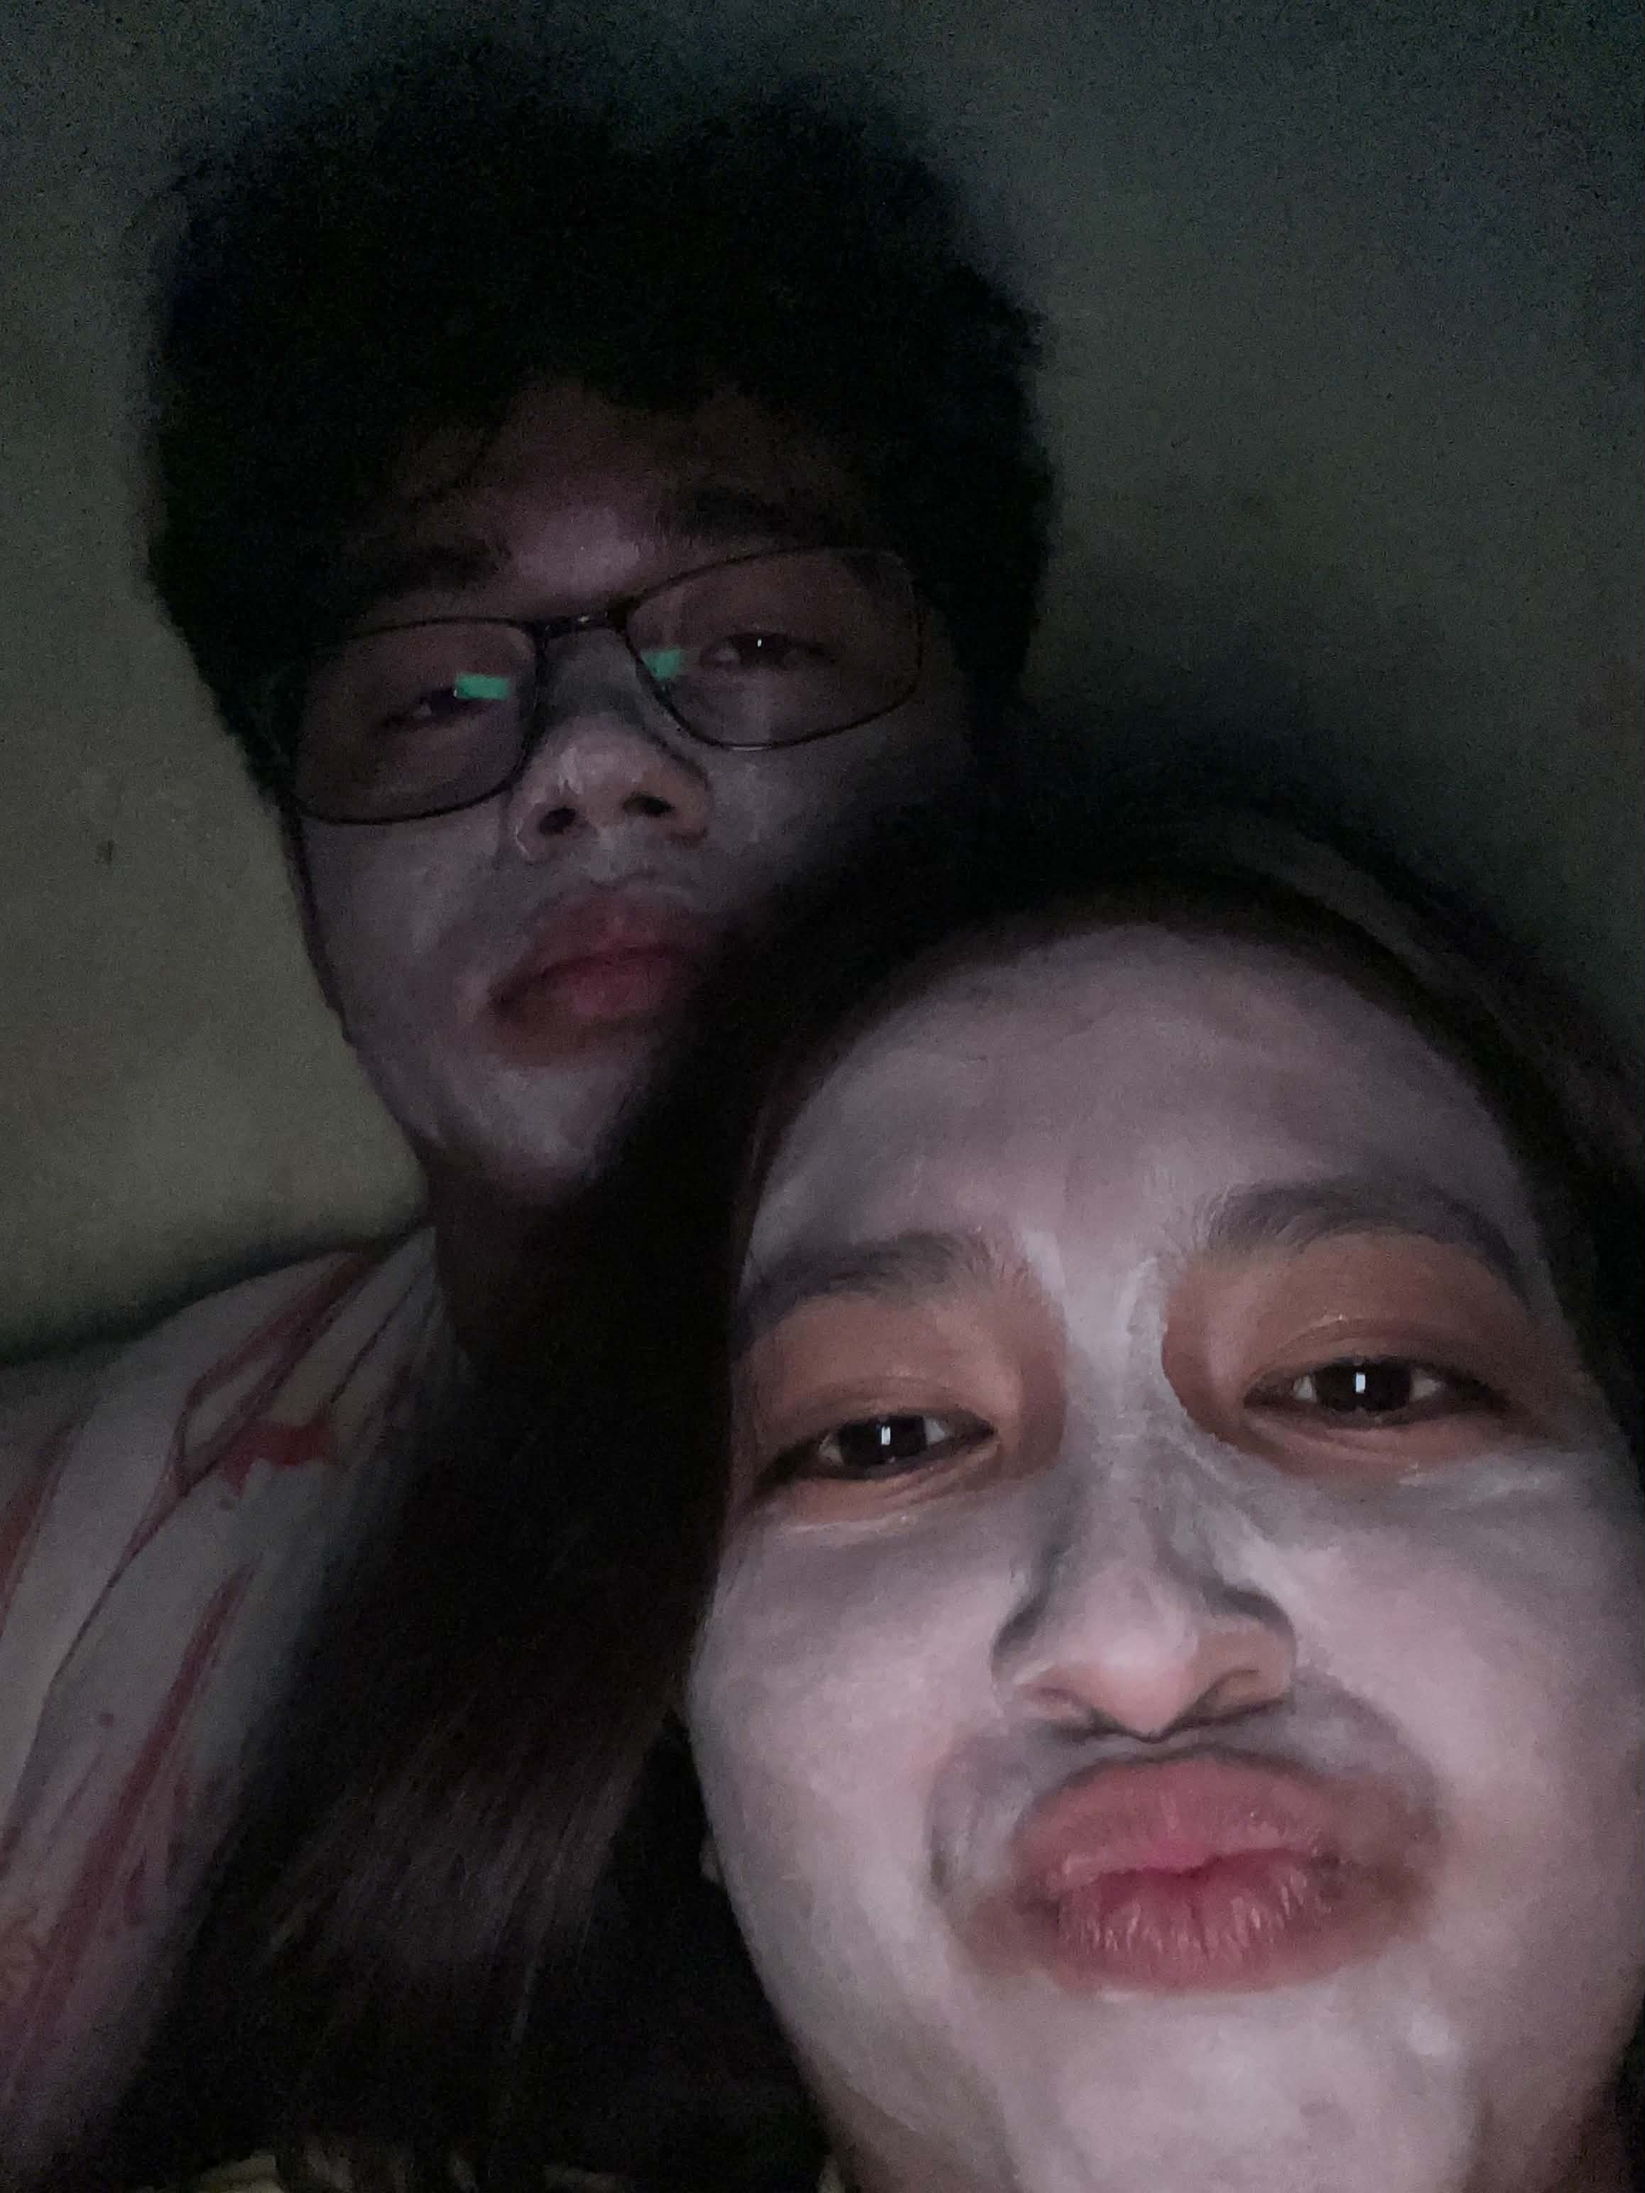
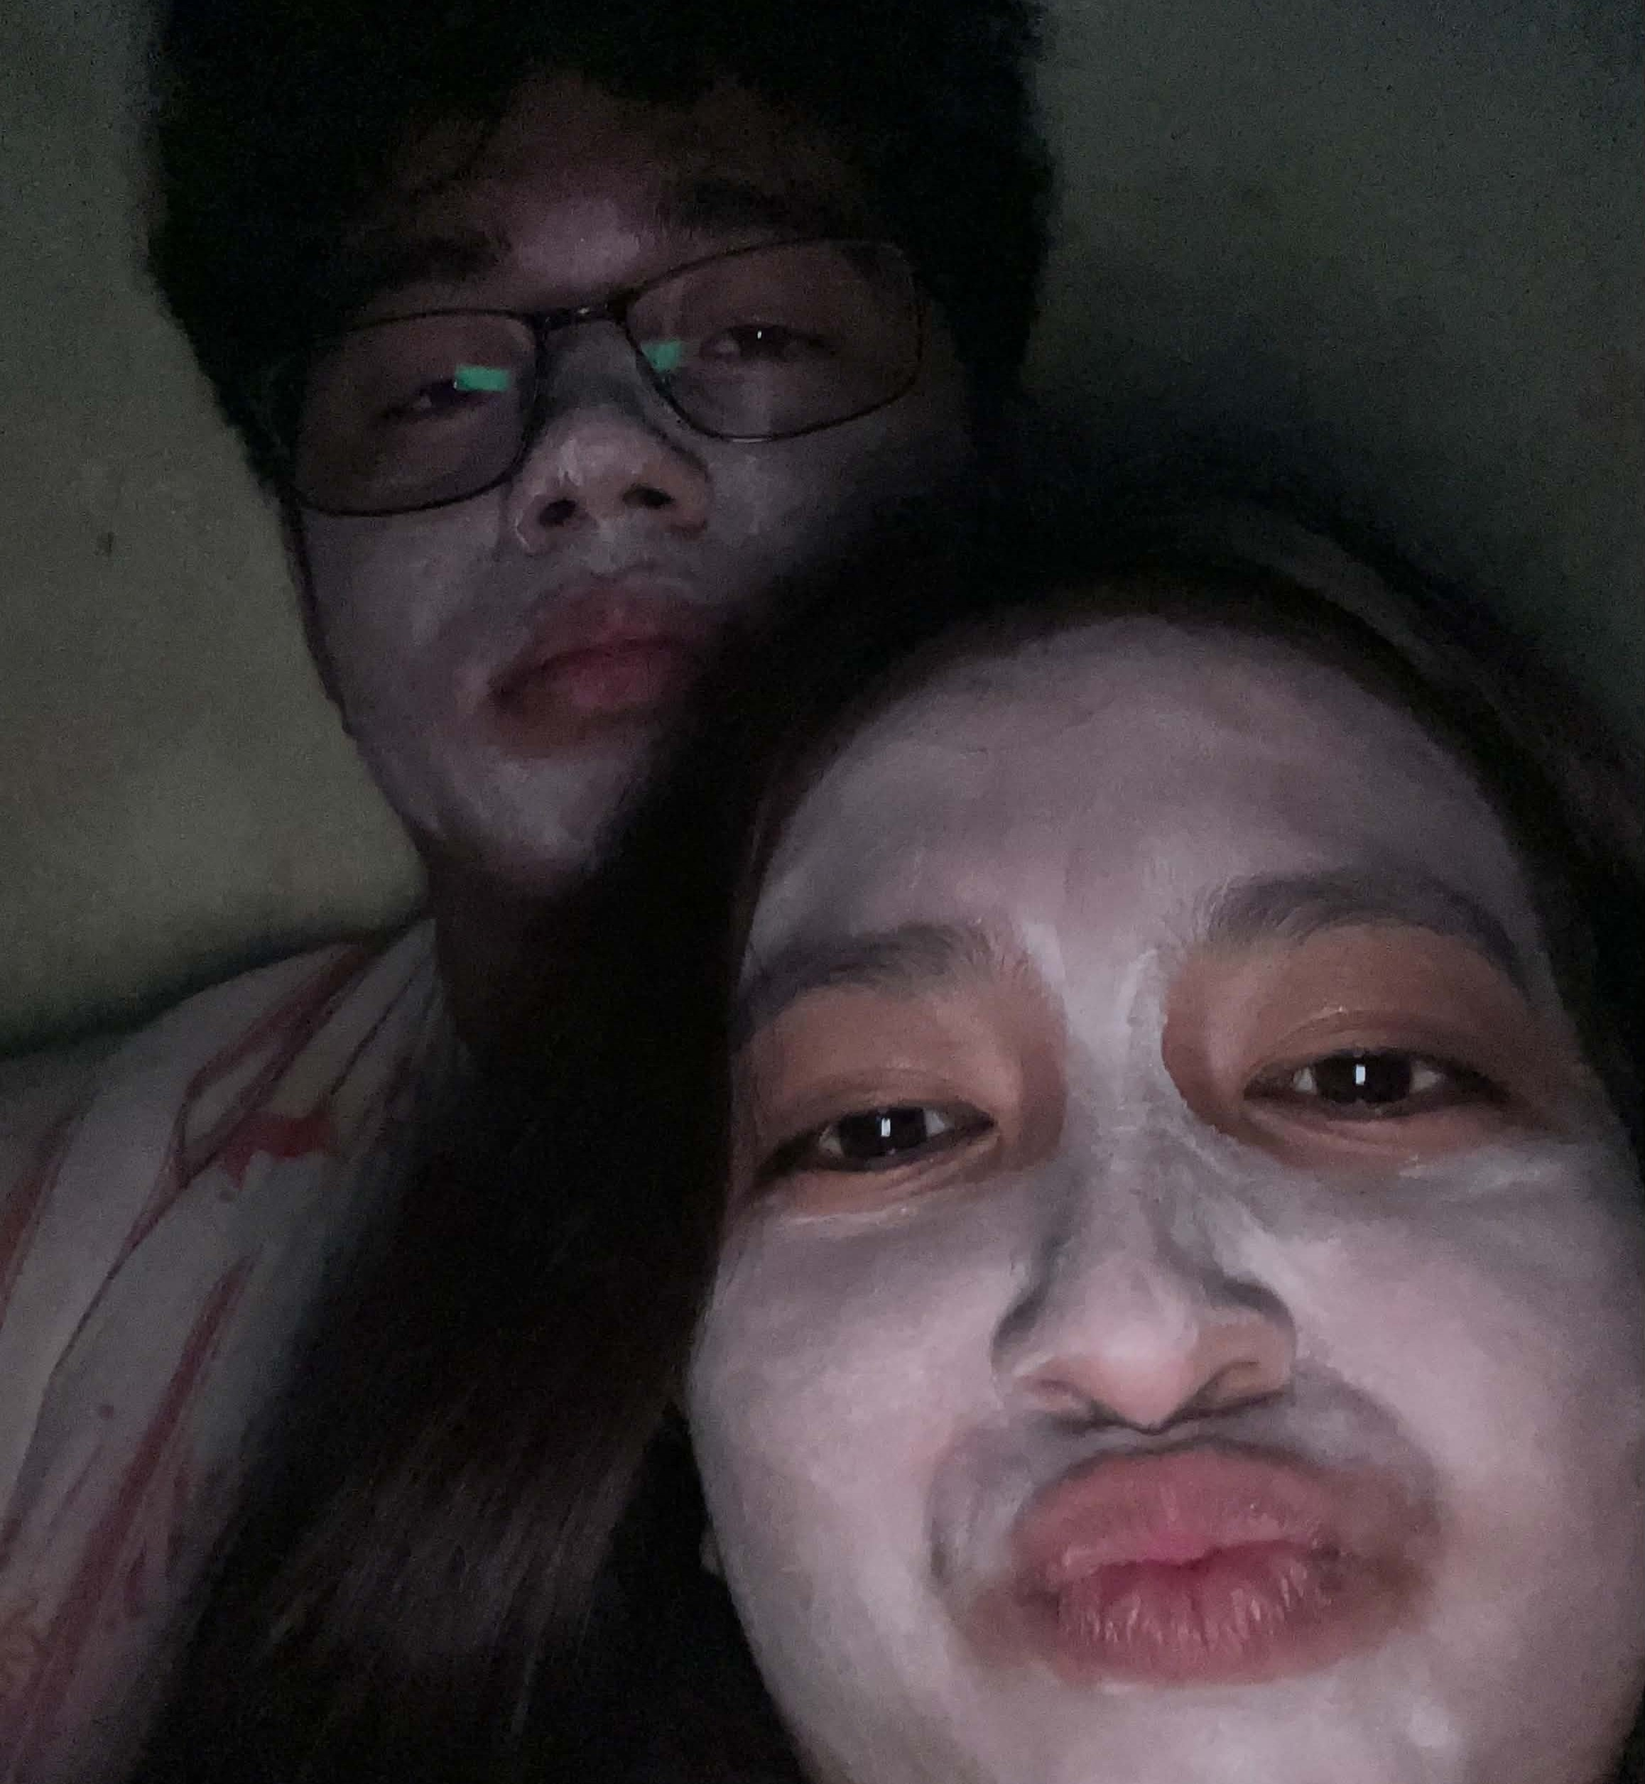
added the 5th picture also edited some images

diff --git a/message.html b/message.html
@@ -32,6 +32,10 @@
                 <img src="images/image4.jpg" class="image4">
                 <p>😼</p>
             </div>
+            <div class="frown">
+                <img src="images/image7.jpg" class="image7">
+                <p>HELLOOOOOOOOOO!</p>
+            </div>
         </div>
         <div class="item">
             <img src="images/image3.jpg">

diff --git a/styles.css b/styles.css
@@ -129,3 +129,17 @@ p {
     text-align: center; 
     border-radius: 10px;
 }
+
+.frown, .image7 {
+    width: 100%;
+    height: 750px;
+    margin-top: 200px;
+    margin-right: auto;
+    margin-left: auto;
+    align-items: center;
+    justify-content: center;
+    font-size: 2rem;
+    font-weight: 400;
+    text-align: center; 
+    border-radius: 10px;
+}
